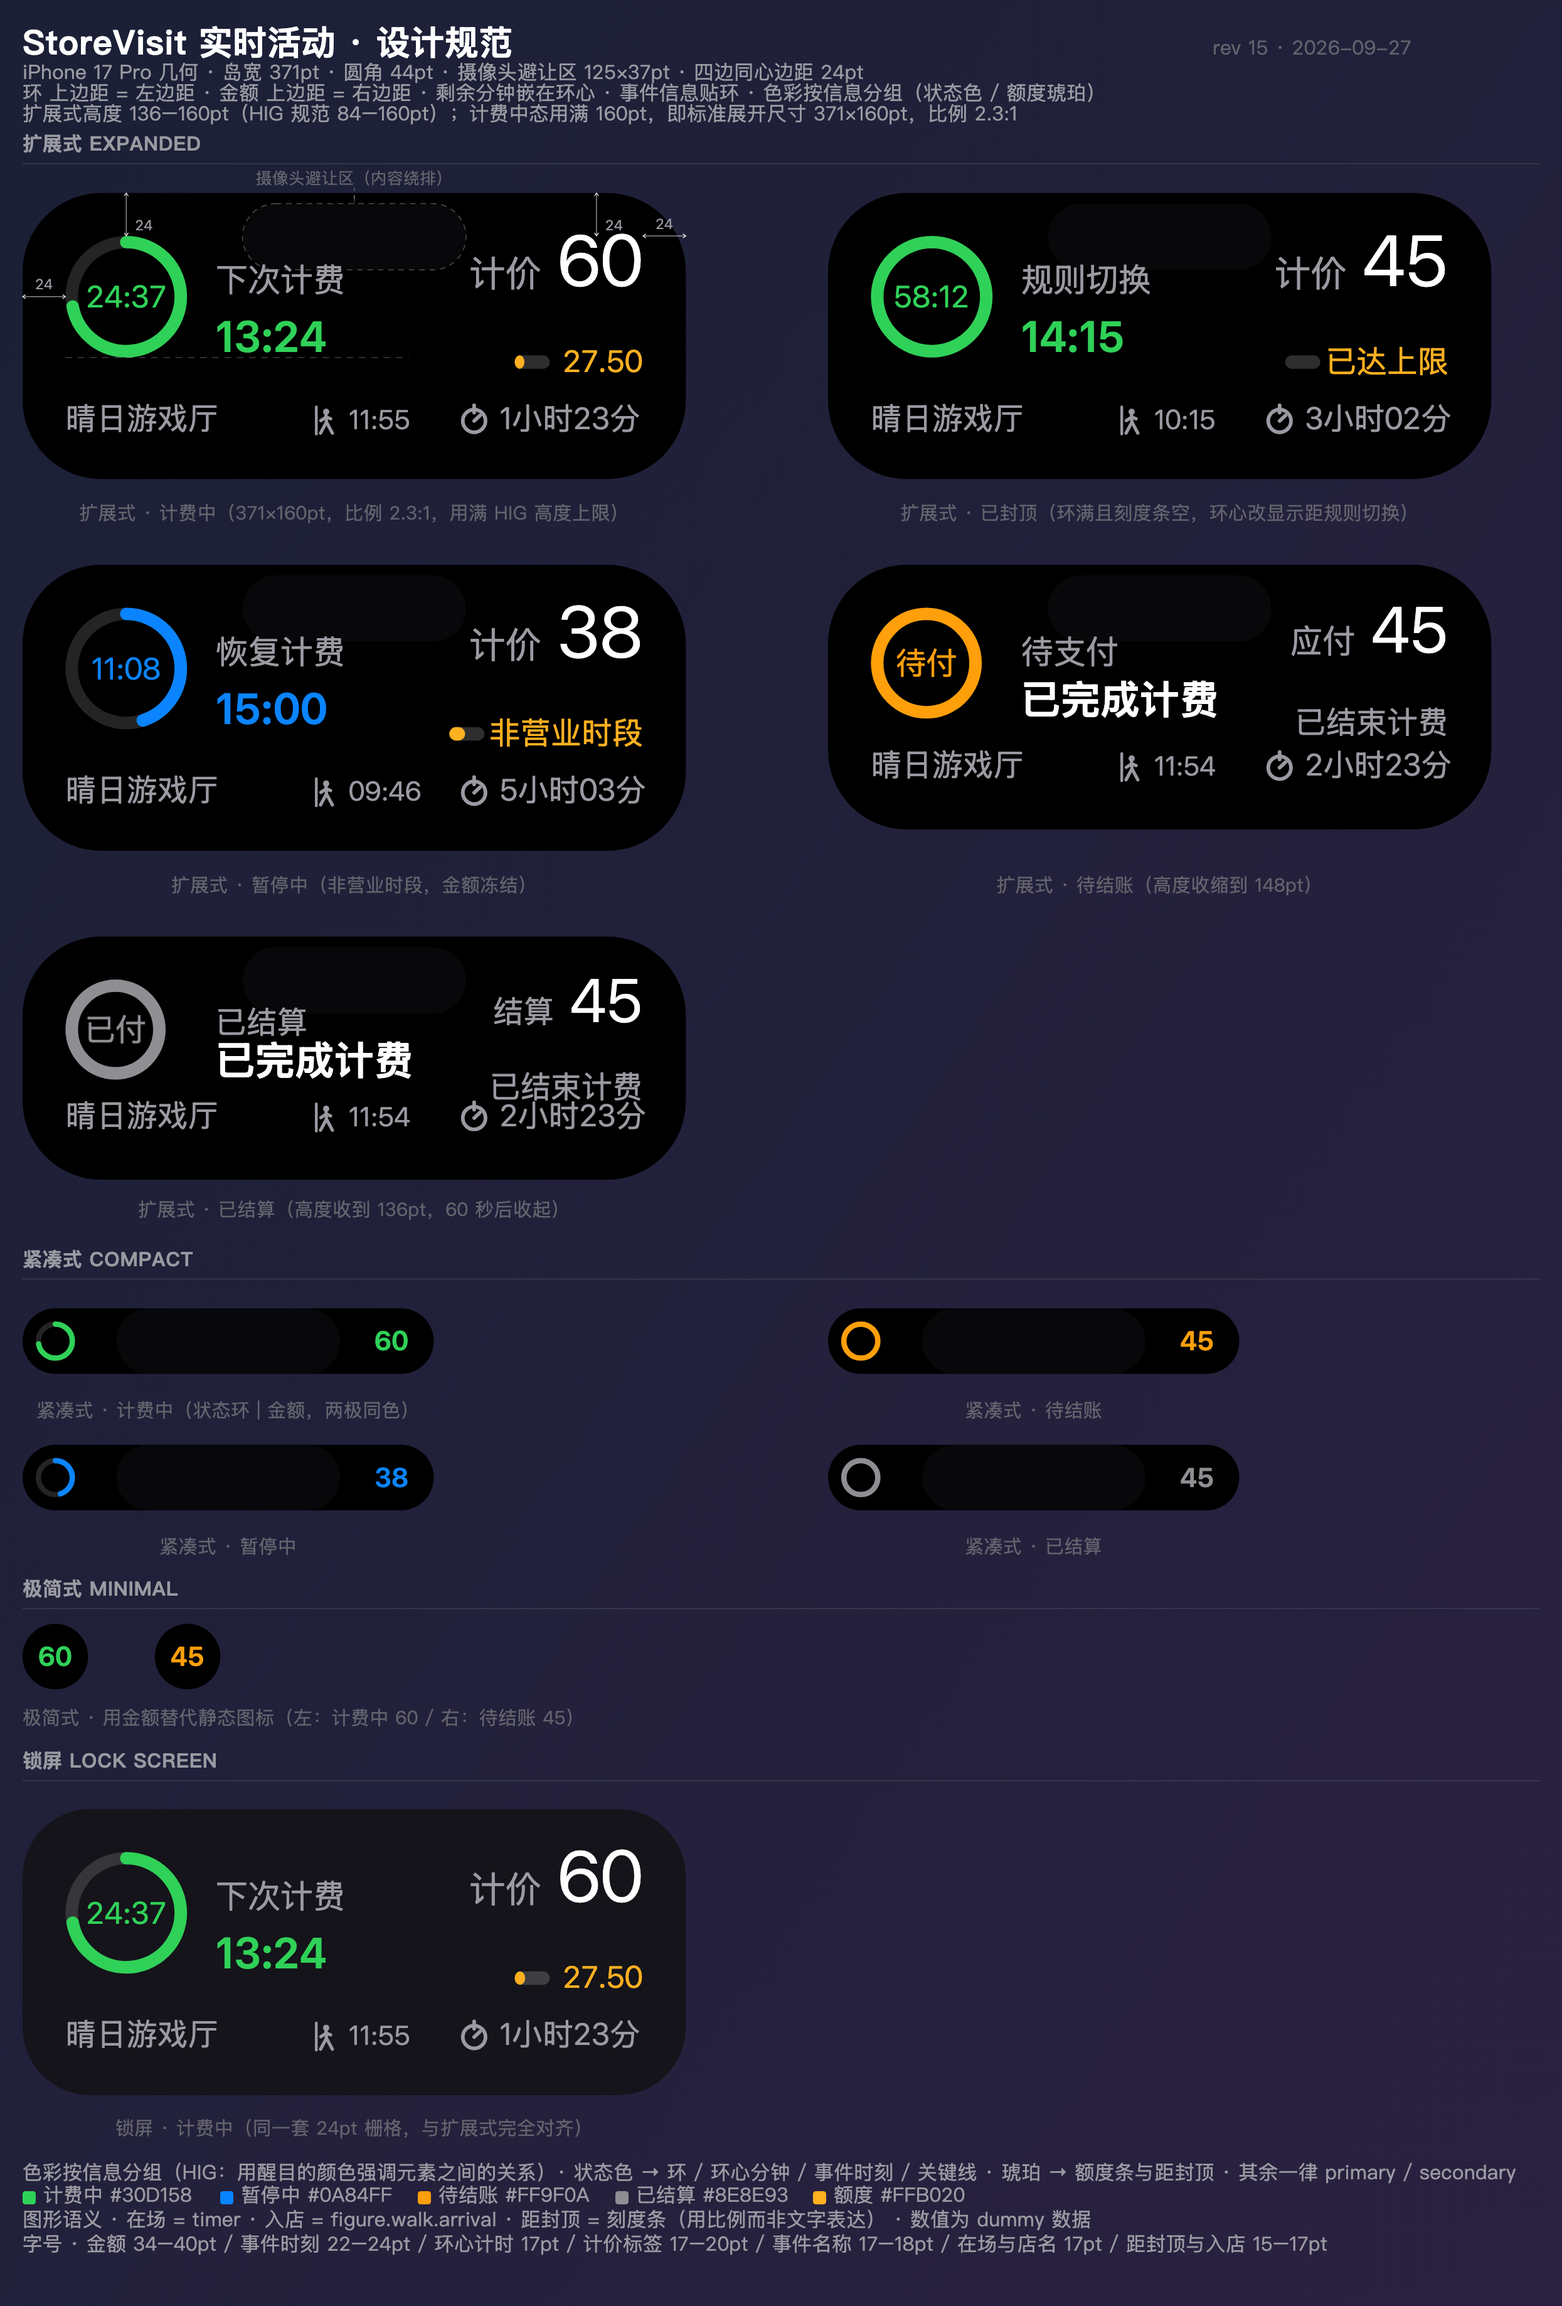
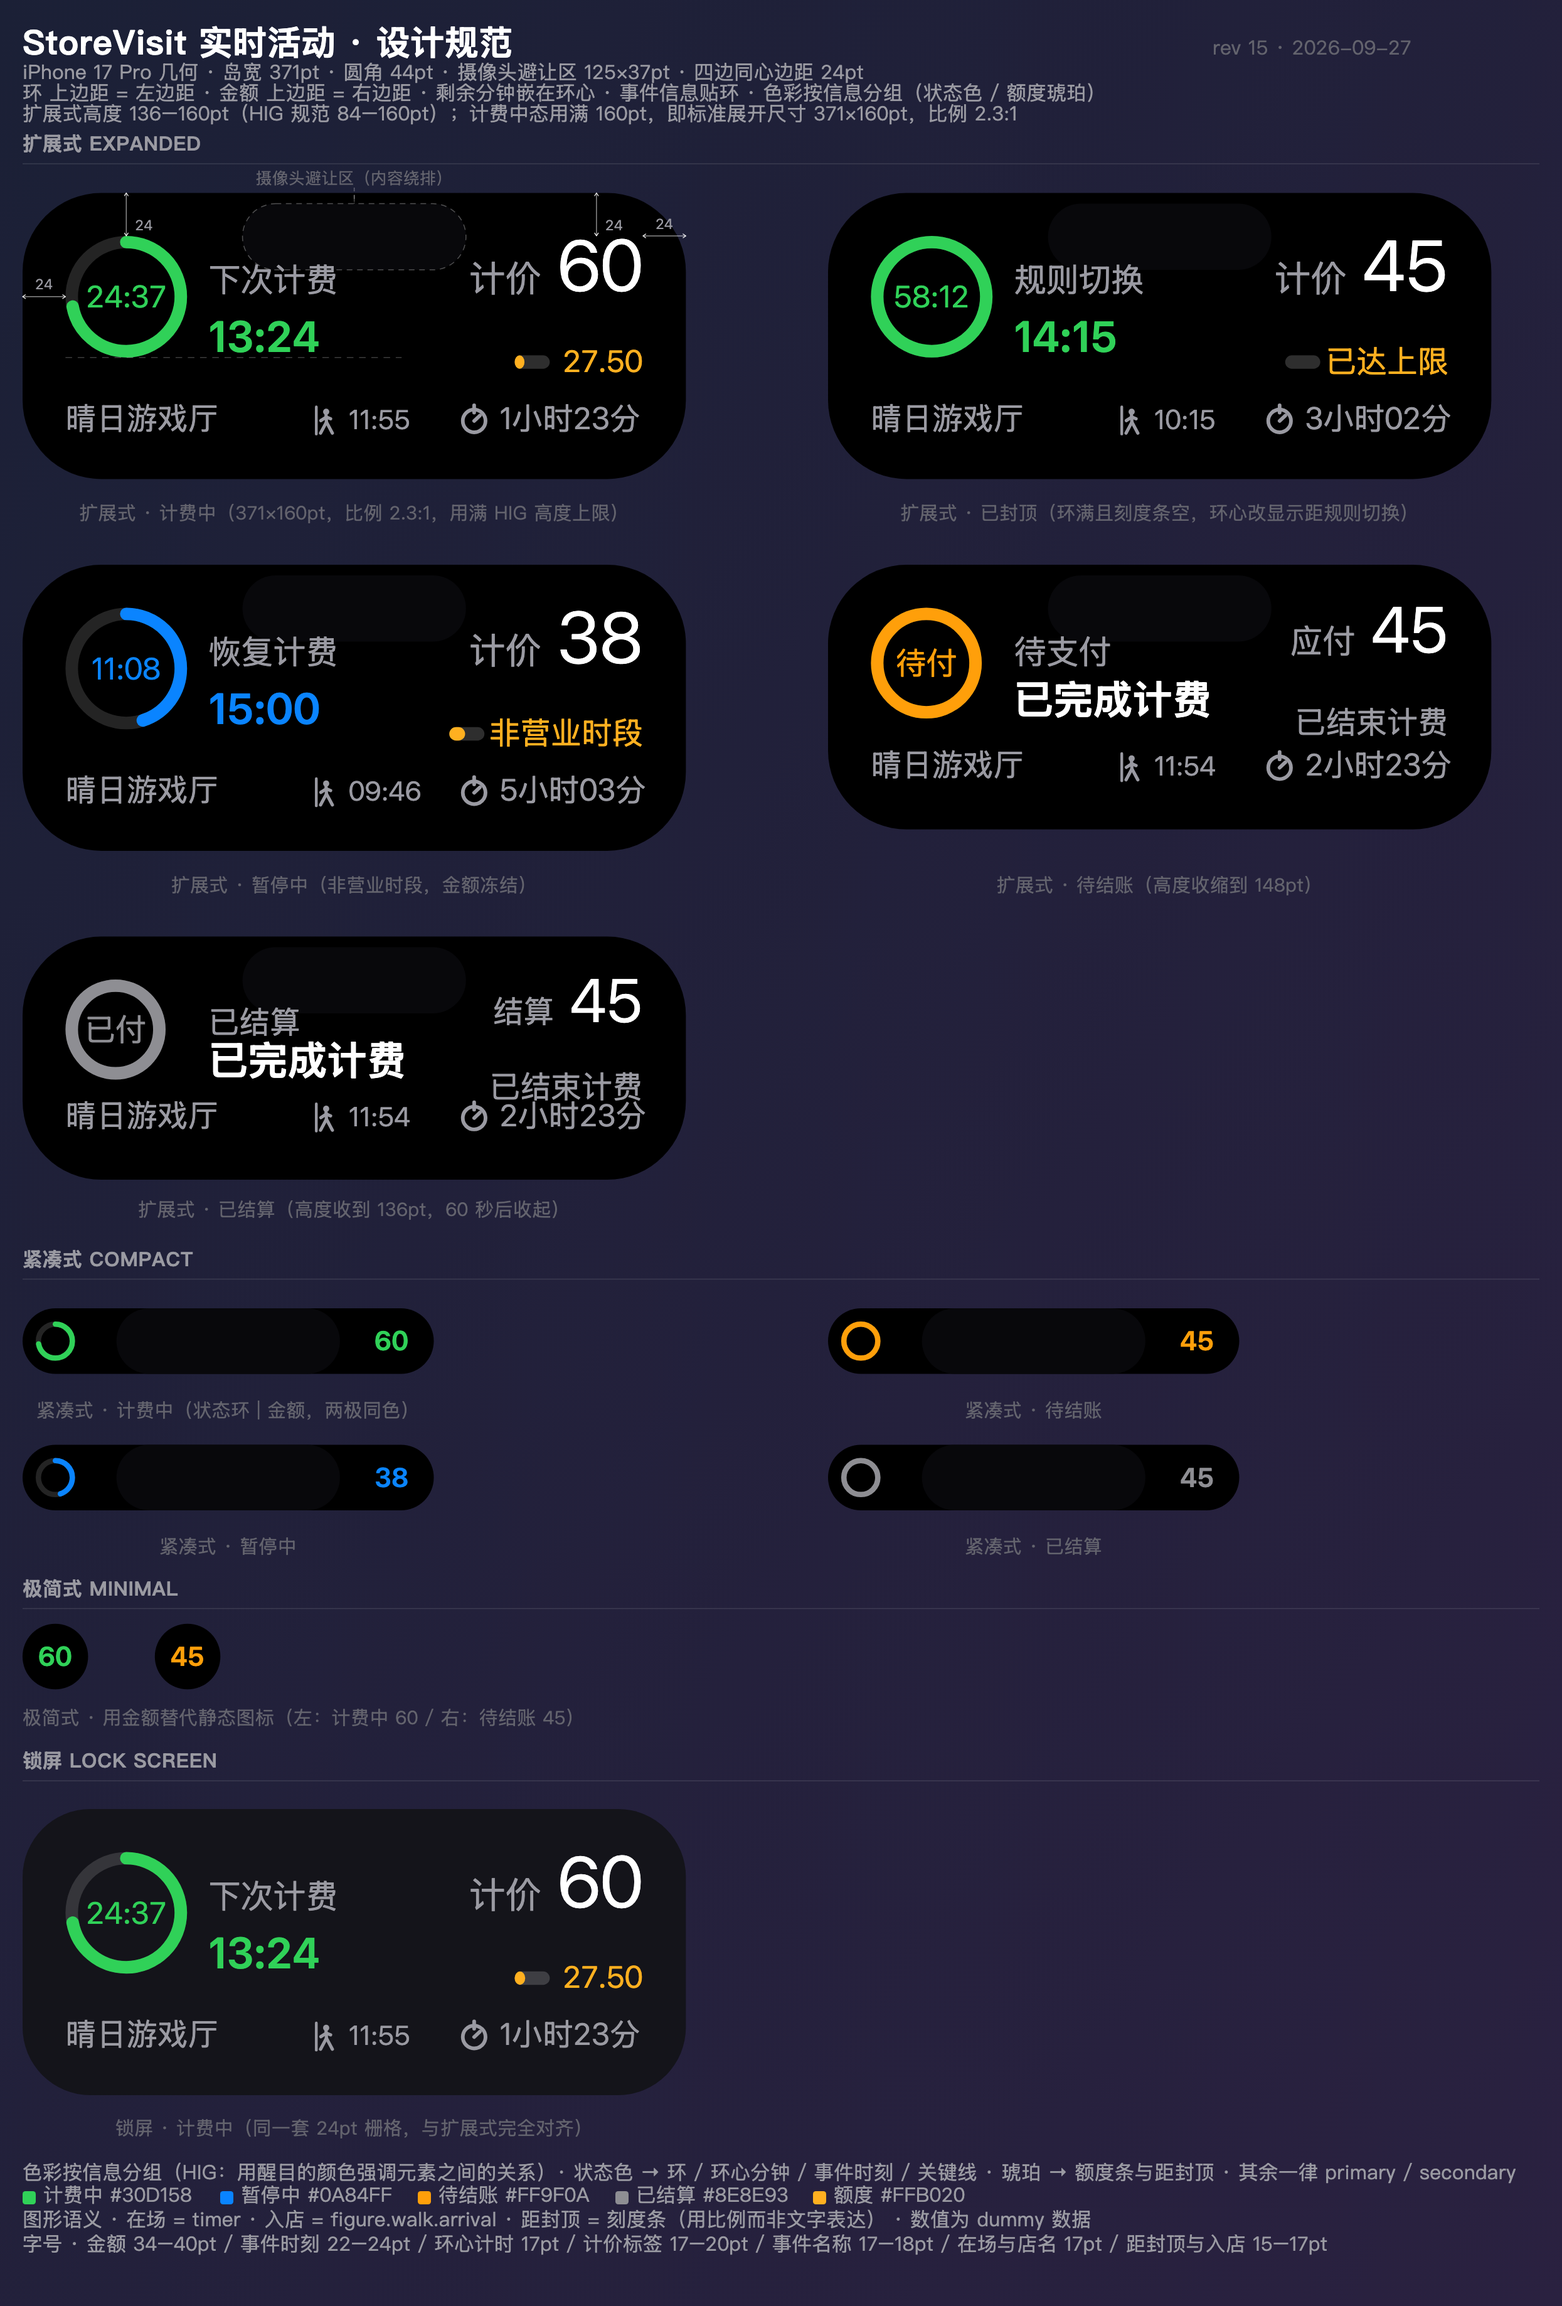
put the caption on the event title's row and let the amount rise past the camera
The caption and the amount were sharing a baseline, but the whole column was
pinned to the region's top, which put that baseline about fifteen points below
the event title's -- so the two read as separate rows instead of one line of
information.

The trailing column now lifts by the difference, so the caption's baseline lands
on the event title's row while the amount keeps sharing that baseline and,
being twice the caption's size, rises past the camera band above it. The event
column also moves in toward the ring: the system pads the gap between the centre
and leading regions, and the sheet wants the event flush against the ring's
right edge.

Both offsets are device-calibrated constants in IslandLayout, so the next pass
is one number each. The sheet is regenerated to match.

diff --git a/ios/LiveActivityShared/StoreVisitActivityView.swift b/ios/LiveActivityShared/StoreVisitActivityView.swift
@@ -69,6 +69,19 @@ private enum IslandLayout {
   /// expanded island is hard-capped at 160pt, so this stays modest.
   static let bandGap: CGFloat = 8
 
+  /// How far the trailing column is lifted so the amount **caption's** baseline
+  /// lands on the same row as the event title's. The caption (20pt) then reads
+  /// as the title's right-hand peer, while the amount (40pt), sharing that
+  /// baseline via firstTextBaseline, rises past the camera band above it — the
+  /// move Apple's own timer activity makes with its digits. Negative because
+  /// the column starts at the region's top and must climb; calibrate on device.
+  static let captionRowLift: CGFloat = -16
+
+  /// Nudges the event column toward the ring. The system pads the gap between
+  /// the centre and leading regions; the sheet wants the event flush against
+  /// the ring's right edge instead. Negative, and calibrate on device.
+  static let eventHugRing: CGFloat = -8
+
   // Type. Fixed points rather than semantic styles: the island is a fixed
   // canvas and the sheet is drawn in points.
   static let amount: CGFloat = 40
@@ -388,6 +401,7 @@ struct StoreVisitActivityLiveConfiguration: Widget {
           // dangling below it. Pinning it to the top tucks it under the camera,
           // where it also lines its last line up with the ring's bottom.
           StoreVisitEventBlock(model: model)
+            .padding(.leading, IslandLayout.eventHugRing)
             .frame(maxWidth: .infinity, maxHeight: .infinity, alignment: .topLeading)
         }
         // Upper band, right: what it costs. The amount's own top inset matches
@@ -396,6 +410,7 @@ struct StoreVisitActivityLiveConfiguration: Widget {
         DynamicIslandExpandedRegion(.trailing) {
           VStack(alignment: .trailing, spacing: 2) {
             StoreVisitAmountLine(model: model)
+              .padding(.top, IslandLayout.captionRowLift)
             StoreVisitCapRow(model: model)
               .padding(.top, 6)
           }

diff --git a/tool/generate_live_activity_preview.py b/tool/generate_live_activity_preview.py
@@ -83,7 +83,7 @@ CAM_W, CAM_H, CAM_TOP = 125.0, 37.0, 6.0
 # corner curve. The ring's TOP inset is forced equal to its LEFT inset.
 MARGIN = 24.0
 REV = "rev 15 · 2026-09-27"
-CTR_X = 108.0
+CTR_X = 104.0
 TRAIL_X = ISLAND_W - MARGIN
 FOOT_X = MARGIN
 
@@ -400,7 +400,7 @@ STATES = [
             dict(y=89, t="13:24", s=24, c="accent", w=600),
         ],
         trail=[
-            dict(y=52, parts=[("计价", 20, SECONDARY, 0), ("60", 40, PRIMARY, 9)]),
+            dict(y=55, parts=[("计价", 20, SECONDARY, 0), ("60", 40, PRIMARY, 9)]),
             dict(y=100, glyph="bar", t="27.50", s=17, c=AMBER),
         ],
         low=(132.0, [("in", "11:55", 15), ("timer", "1小时23分", 17)]),
@@ -416,7 +416,7 @@ STATES = [
             dict(y=89, t="14:15", s=24, c="accent", w=600),
         ],
         trail=[
-            dict(y=52, parts=[("计价", 20, SECONDARY, 0), ("45", 40, PRIMARY, 9)]),
+            dict(y=55, parts=[("计价", 20, SECONDARY, 0), ("45", 40, PRIMARY, 9)]),
             dict(y=100, glyph="bar", t="已达上限", s=17, c=AMBER),
         ],
         low=(132.0, [("in", "10:15", 15), ("timer", "3小时02分", 17)]),
@@ -432,7 +432,7 @@ STATES = [
             dict(y=89, t="15:00", s=24, c="accent", w=600),
         ],
         trail=[
-            dict(y=52, parts=[("计价", 20, SECONDARY, 0), ("38", 40, PRIMARY, 9)]),
+            dict(y=55, parts=[("计价", 20, SECONDARY, 0), ("38", 40, PRIMARY, 9)]),
             dict(y=100, glyph="bar", t="非营业时段", s=17, c=AMBER),
         ],
         low=(132.0, [("in", "09:46", 15), ("timer", "5小时03分", 17)]),
@@ -521,7 +521,7 @@ def lock_screen(x, y, accent, frac):
         dict(y=89, t="13:24", s=24, c=accent, w=600),
     ]:
         g.append(t(CTR_X, line["y"], line["t"], line["s"], line["c"], weight=line.get("w")))
-    g.append(tline_right(ISLAND_W - m, 52,
+    g.append(tline_right(ISLAND_W - m, 55,
                          [("计价", 20, SECONDARY, 0), ("60", 40, PRIMARY, 9)]))
     for line in [dict(y=100, glyph="bar", t="27.50", s=17)]:
         size = line["s"]
